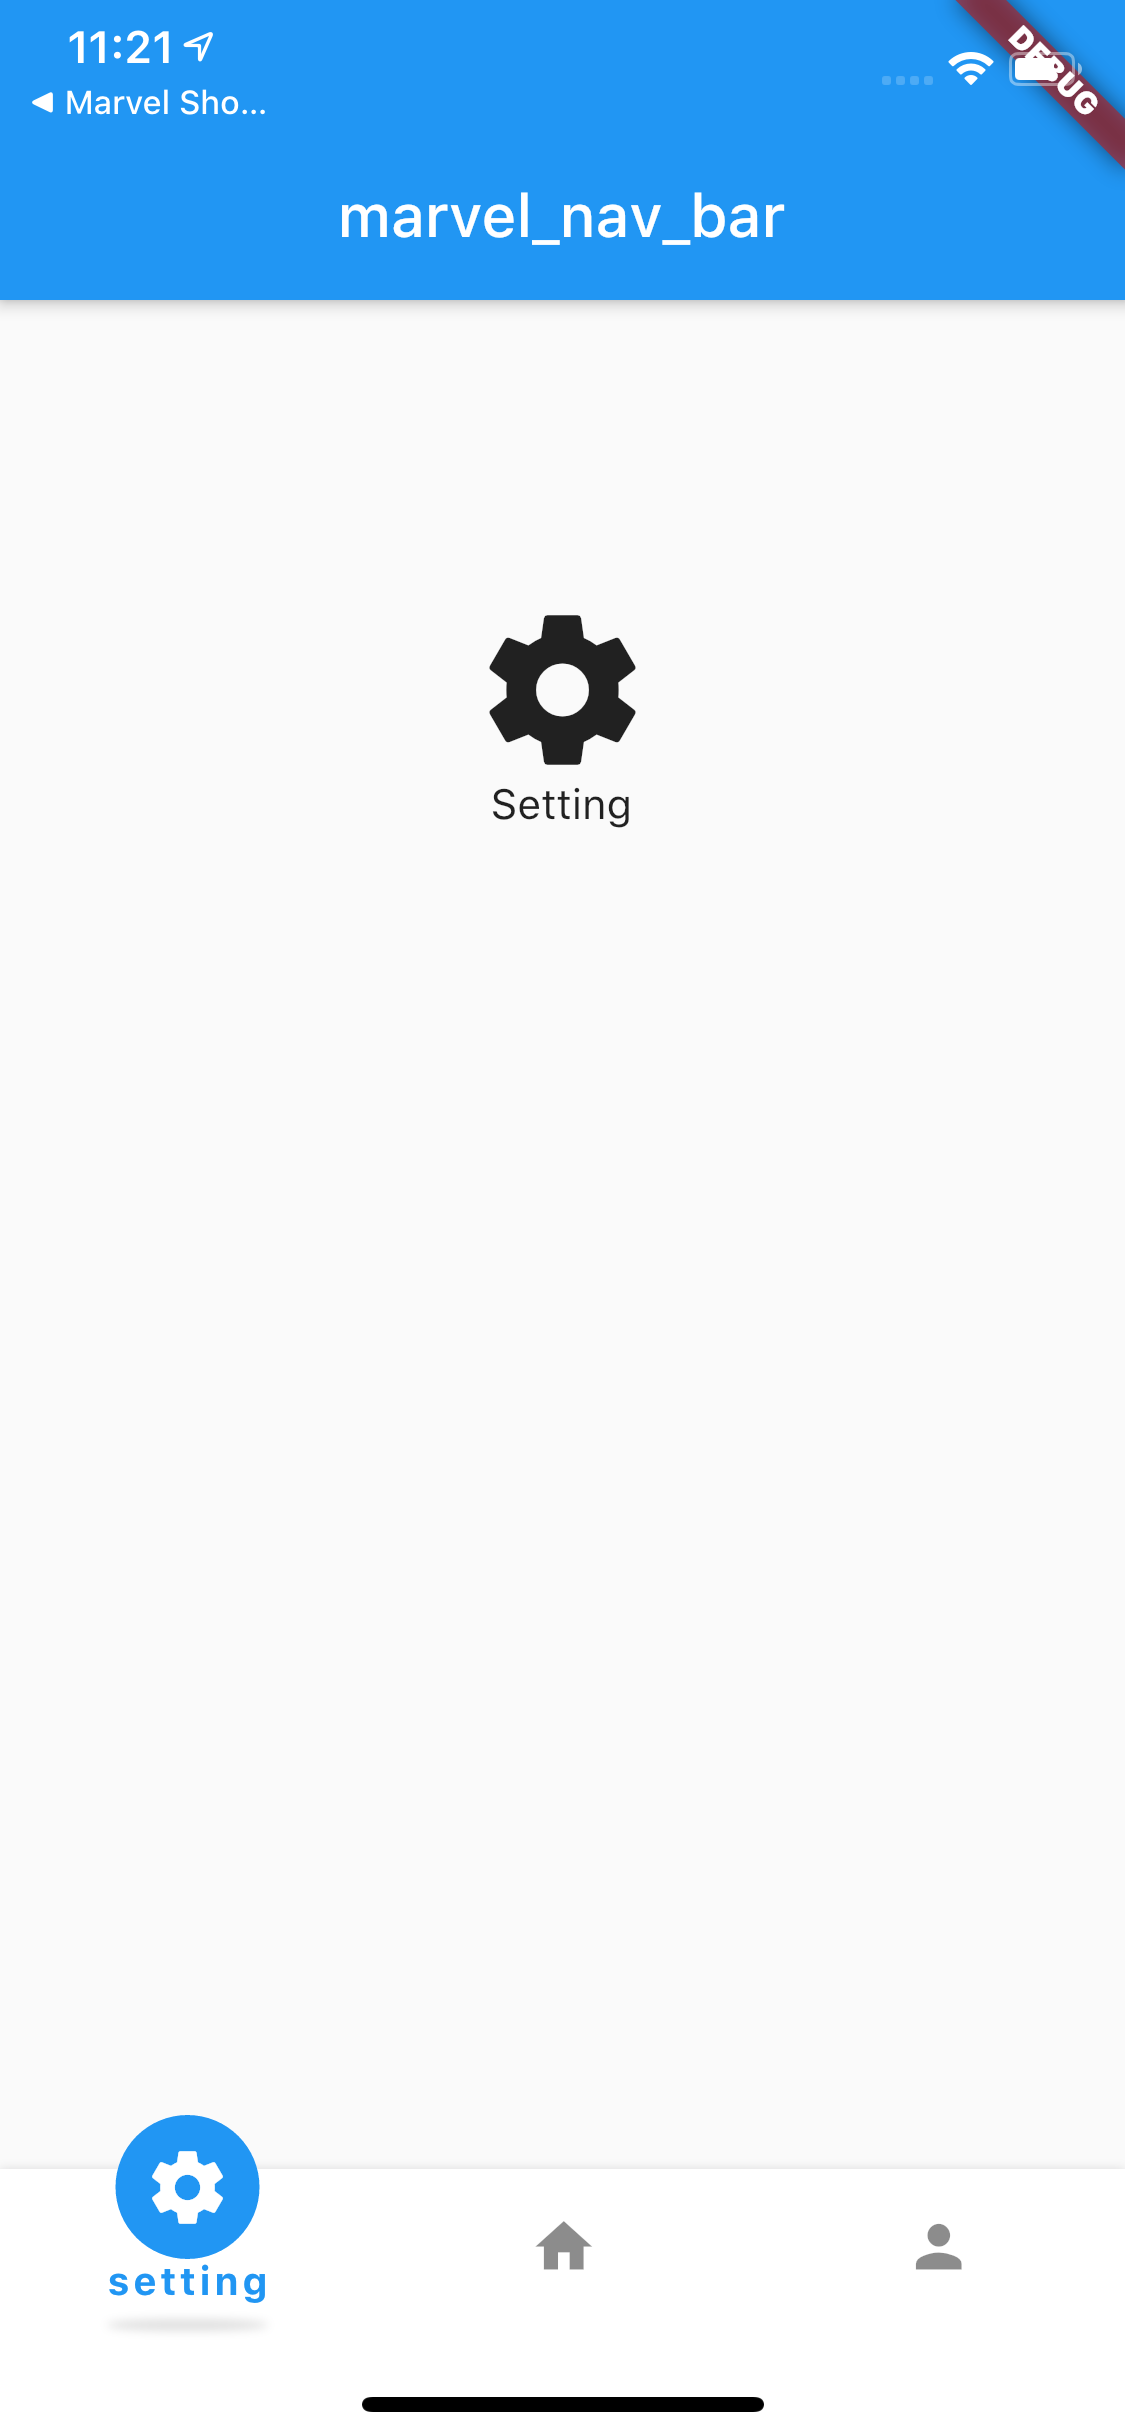
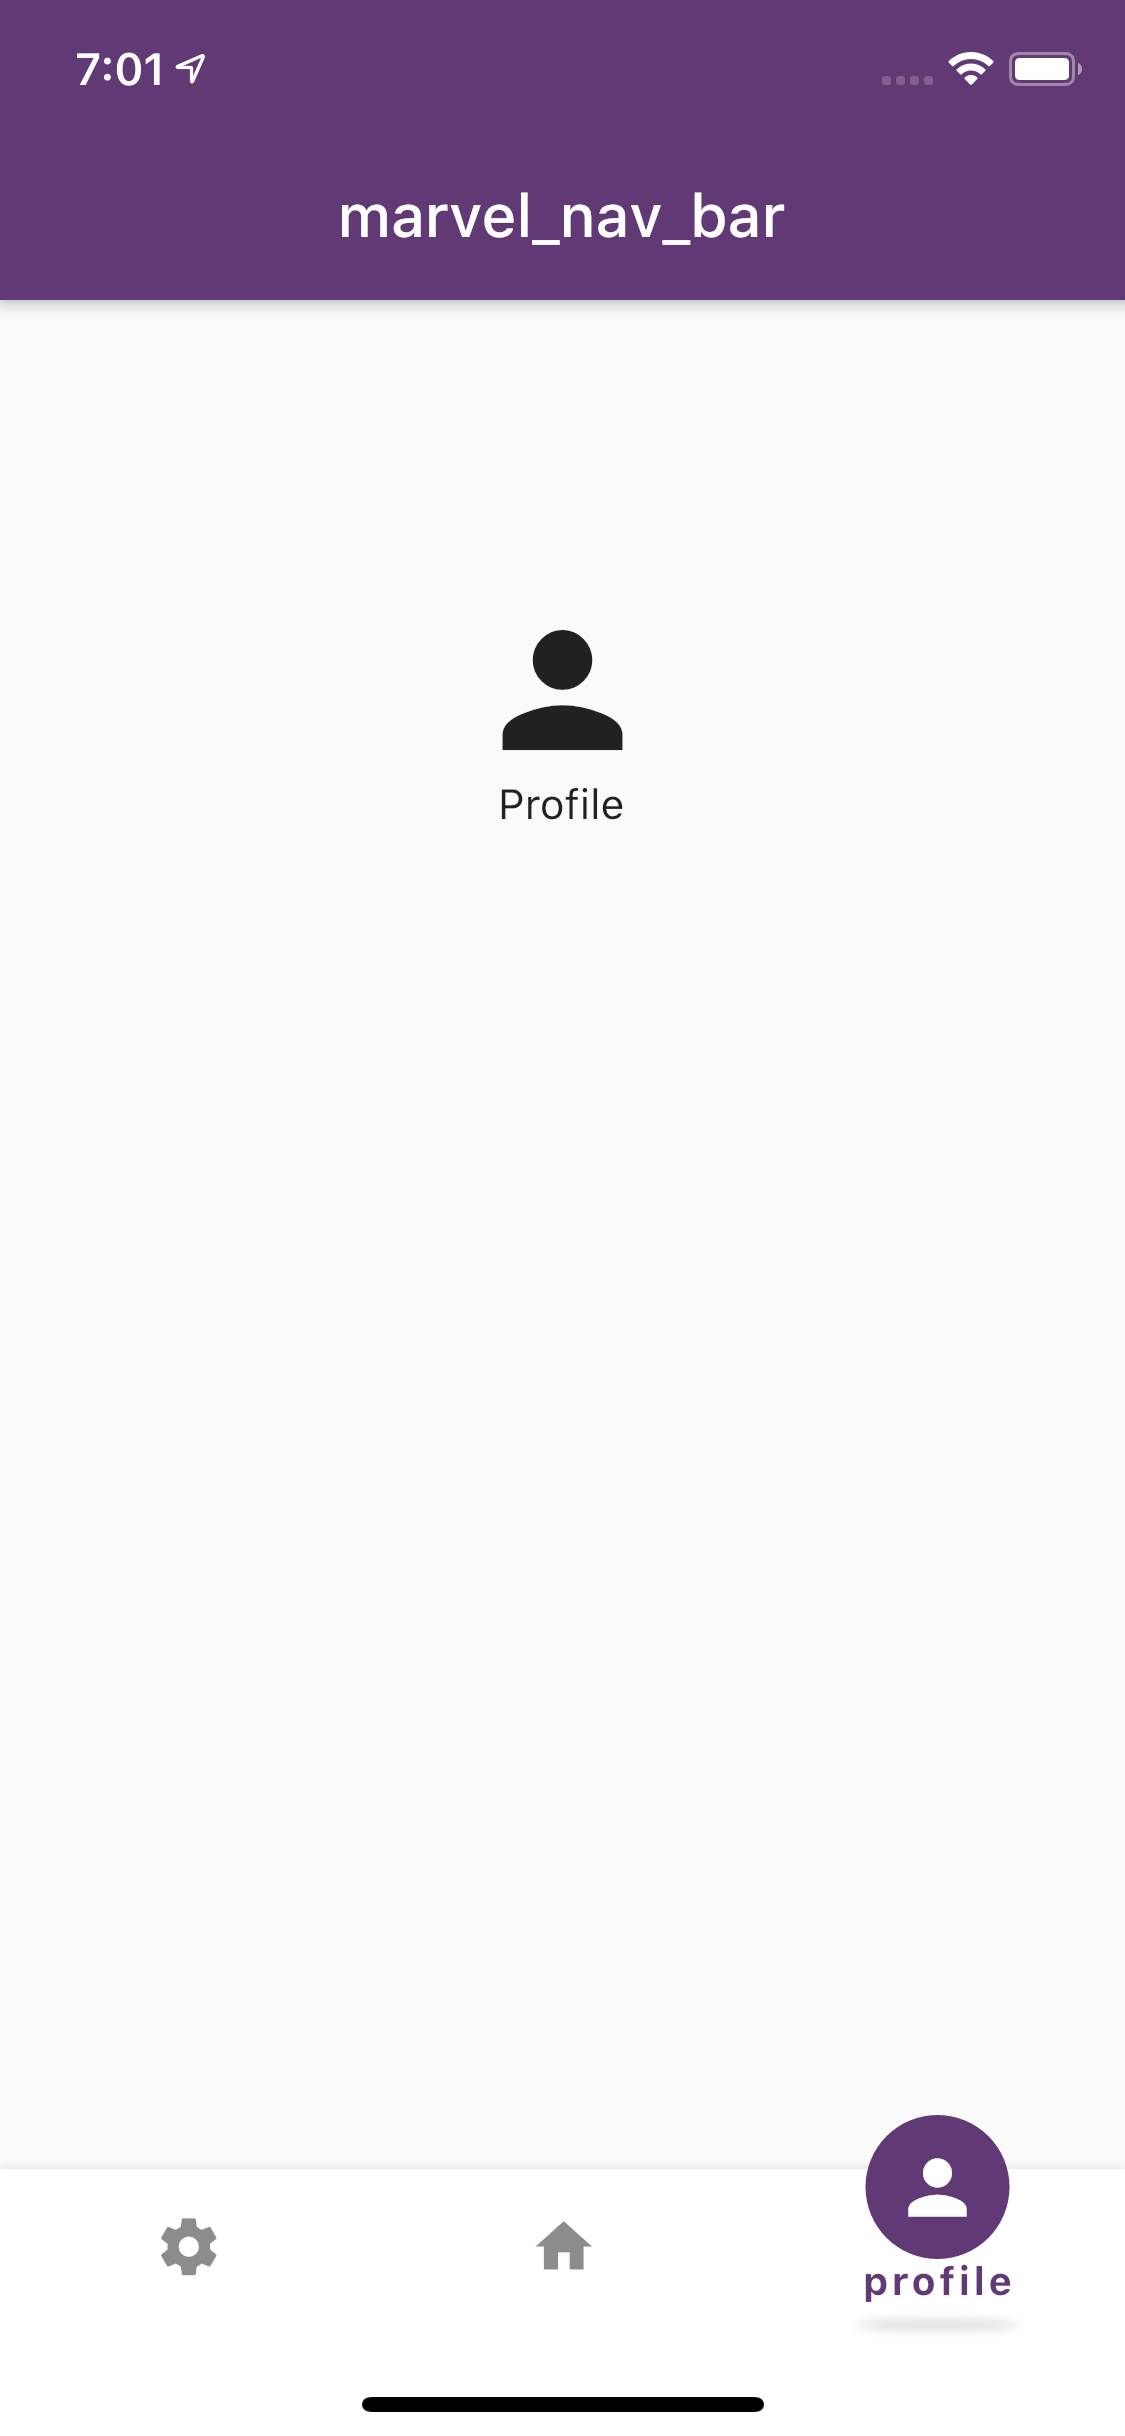
my useful message

diff --git a/example/lib/main.dart b/example/lib/main.dart
@@ -1,18 +1,24 @@
 import 'package:flutter/material.dart';
 import 'package:marvel_nav_bar/marvel_nav_bar.dart';
 
+var colors =  Color.fromARGB(255,97, 57, 117);
+
 void main() {
   runApp(MyApp());
 }
 
+
 class MyApp extends StatelessWidget {
+
   @override
   Widget build(BuildContext context) {
     return MaterialApp(
+      debugShowMaterialGrid: false,
+      debugShowCheckedModeBanner: false,
       title: 'Marvel-Nav',
       theme: ThemeData(
         primarySwatch: Colors.blue,
-        primaryColor: Colors.blue,
+        primaryColor: Color.fromARGB(255,97, 57, 117),
         visualDensity: VisualDensity.adaptivePlatformDensity,
       ),
       home: MyHomePage(title: 'marvel_nav_bar'),
@@ -32,8 +38,7 @@ class MyHomePage extends StatefulWidget {
 class _MyHomePageState extends State<MyHomePage> {
   int currentIndex=1;
   PageController pageController;
-
-
+  var colors =  Color.fromARGB(255,97, 57, 117);
 
 
   List<Widget>_listItem=
@@ -67,7 +72,8 @@ class _MyHomePageState extends State<MyHomePage> {
       appBar: AppBar(
         title: Text(widget.title),
       ),
-      bottomNavigationBar: MarvelNavBar(
+      bottomNavigationBar:
+      MarvelNavBar(
         items: [
           MarvelNavItem(iconData: Icons.settings,label: 'setting',),
           MarvelNavItem(iconData: Icons.home,label: 'home',),
@@ -81,16 +87,16 @@ class _MyHomePageState extends State<MyHomePage> {
               color: Colors.black45,
               fontWeight: FontWeight.normal,
               height: 0),
-          selectedItemLabelColor: Colors.blue,
+          selectedItemLabelColor: colors,
           showSelectedItemShadow: true,
           unselectedItemBackgroundColor: Colors.transparent,
           selectedItemIconColor: Colors.white,
-          selectedItemBackgroundColor: Colors.blue,
+          selectedItemBackgroundColor: colors,
           unselectedItemLabelColor: Colors.white,
           barBackgroundColor: Colors.white,
           selectedItemTextStyle:TextStyle(
               fontSize: 13.0,
-              color: Colors.blue,
+              color: colors,
               fontWeight: FontWeight.bold,
               height: 1.2),),
         selectedIndex: currentIndex,
@@ -98,7 +104,8 @@ class _MyHomePageState extends State<MyHomePage> {
           onSelectedTab(index);
         },
       ),
-      body: Center(
+      body:
+      Center(
         child:PageView(children:_listItem,onPageChanged: onSelectedTab,
         controller: pageController,),
       ),

diff --git a/README.md b/README.md
@@ -1,14 +1,1 @@
-# marvelnavbottom
-
-A new Flutter package.
-
-## Getting Started
-
-This project is a starting point for a Dart
-[package](https://flutter.dev/developing-packages/),
-a library module containing code that can be shared easily across
-multiple Flutter or Dart projects.
-
-For help getting started with Flutter, view our 
-[online documentation](https://flutter.dev/docs), which offers tutorials, 
-samples, guidance on mobile development, and a full API reference.
+f
